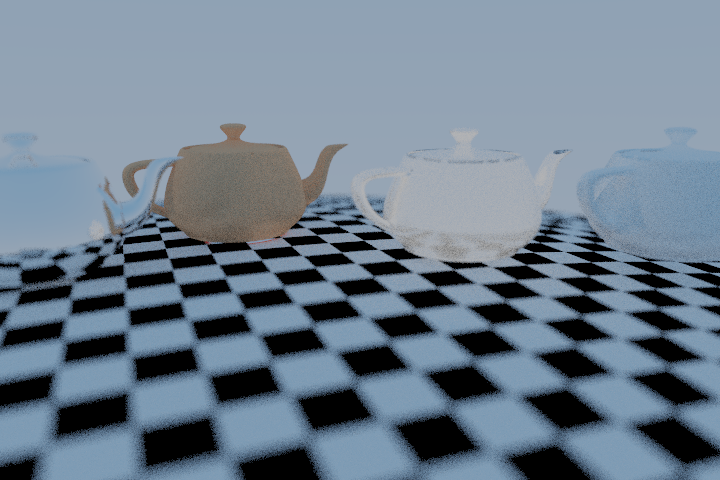
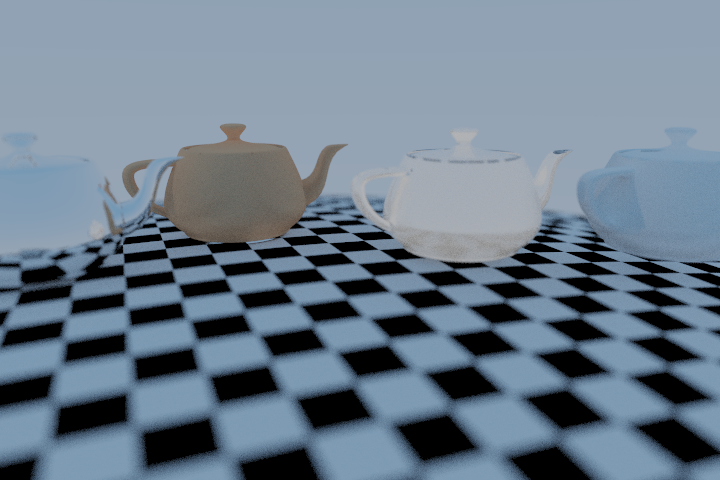
nice stuff

diff --git a/src/main.rs b/src/main.rs
@@ -6,6 +6,7 @@ pub mod brdf;
 pub mod cpu_tracer;
 pub mod hittable;
 pub mod intersection;
+pub mod light;
 pub mod mat;
 pub mod material;
 pub mod materials;
@@ -139,6 +140,7 @@ impl RayGenerationShader for RayGenerator {
                     hit_record.front_facing =
                         dot(&hit_record.normal, &hit_record.ray_direction()) < 0.0;
                     let bounce = material.scatter(resources, &hit_record);
+                    coefficient *= bounce.color;
                     ray = bounce.ray;
                     hit_record.bounce = bounce;
                     results.push(hit_record);
@@ -146,7 +148,7 @@ impl RayGenerationShader for RayGenerator {
                     let d = 0.5 * ray.dir.y() + 1.;
                     let c = Color::from_values(&[1.0, 1.0, 1.0]) * (1.0 - d)
                         + Color::from_values(&[0.5, 0.7, 1.0]) * d;
-                    coefficient *= c;
+                    coefficient = c;
                     break;
                 }
 
@@ -253,5 +255,5 @@ fn main() {
     );
 
     let tracer = CPUTracer::new(RayGenerator { camera: camera });
-    tracer.trace(32, 16, width, height, &ac, &resources);
+    tracer.trace(128, 16, width, height, &ac, &resources);
 }

diff --git a/src/hittable.rs b/src/hittable.rs
@@ -7,6 +7,7 @@ use super::vec::*;
 use std::time::Instant;
 
 pub trait Hittable {
+    fn uid(&self) -> usize;
     fn intersect(
         &self,
         object_to_world: &Transform,
@@ -92,6 +93,10 @@ impl Hittable for Sphere {
     fn bounding_box(&self) -> std::option::Option<BoundingBox> {
         let r = Position::from_values(&[self.radius, self.radius, self.radius]);
         Some(BoundingBox::new(self.position - r, self.position + r))
+    }
+
+    fn uid(&self) -> usize {
+        1
     }
 }
 
@@ -210,6 +215,10 @@ impl Hittable for TriangleMesh {
 
     fn bounding_box(&self) -> Option<BoundingBox> {
         Some(self.acceleration_structure.bounding_box())
+    }
+
+    fn uid(&self) -> usize {
+        2
     }
 }
 
@@ -331,6 +340,10 @@ impl Hittable for XYRect {
             Vec3::from_values(&[self.x0, self.y0, -0.0001]),
             Vec3::from_values(&[self.x1, self.y1, 0.0001]),
         ))
+    }
+
+    fn uid(&self) -> usize {
+        3
     }
 }
 pub struct XZRect {

diff --git a/src/materials.rs b/src/materials.rs
@@ -37,6 +37,10 @@ impl Material for DiffuseMaterial {
     fn emit(&self, _: &Resources, _hit_record: &HitRecord) -> Option<Color> {
         None
     }
+
+    fn uid(&self) -> usize {
+        1
+    }
 }
 
 pub struct MirrorMaterial {
@@ -54,6 +58,10 @@ impl Material for MirrorMaterial {
             &hit_record.position(),
         );
         Bounce::new(&ray, &color, 1.0)
+    }
+
+    fn uid(&self) -> usize {
+        2
     }
 }
 
@@ -107,6 +115,10 @@ impl Material for TranslucentMaterial {
 
     fn emit(&self, resources: &Resources, _hit_record: &HitRecord) -> Option<Color> {
         None
+    }
+
+    fn uid(&self) -> usize {
+        3
     }
 }
 
@@ -176,5 +188,9 @@ impl Material for PBRMaterial {
 
     fn emit(&self, resources: &Resources, _hit_record: &HitRecord) -> Option<crate::types::Color> {
         None
+    }
+
+    fn uid(&self) -> usize {
+        4
     }
 }

diff --git a/src/texture.rs b/src/texture.rs
@@ -2,6 +2,7 @@ use super::resources::Resources;
 use super::types::*;
 use super::vec::*;
 pub trait Texture {
+    fn uid(&self) -> usize;
     fn sample(&self, resources: &Resources, uv: &TextureCoordinate, position: &Position) -> Color;
 }
 
@@ -18,6 +19,10 @@ impl SolidColorTexture {
 impl Texture for SolidColorTexture {
     fn sample(&self, _resources: &Resources, _: &TextureCoordinate, _: &Position) -> Color {
         self.color
+    }
+
+    fn uid(&self) -> usize {
+        1
     }
 }
 
@@ -47,5 +52,9 @@ impl Texture for CheckerTexture {
         } else {
             resources.texture(self.even).sample(resources, uv, position)
         }
+    }
+
+    fn uid(&self) -> usize {
+        2
     }
 }

diff --git a/src/light.rs b/src/light.rs
@@ -1,0 +1,26 @@
+use super::types::{Direction, Position};
+
+pub trait Light {
+    fn sample(&self, position: &Position) -> Direction;
+    fn intensity(&self) -> f32;
+}
+
+pub struct DirectionalLight {
+    direction: Direction,
+    intenstity: f32,
+}
+
+impl Light for DirectionalLight {
+    fn sample(&self, _: &Position) -> Direction {
+        self.direction
+    }
+
+    fn intensity(&self) -> f32 {
+        self.intenstity
+    }
+}
+
+pub struct SphericalLight {
+    radius: f32,
+    intensity: f32,
+}

diff --git a/src/material.rs b/src/material.rs
@@ -45,6 +45,8 @@ impl HitRecord {
 }
 
 pub trait Material {
+    fn uid(&self) -> usize;
+
     fn scatter(&self, resources: &Resources, _hit_record: &HitRecord) -> Bounce {
         Bounce::default()
     }

diff --git a/src/resources.rs b/src/resources.rs
@@ -1,4 +1,4 @@
-use rand::rngs::adapter::ReseedingRng;
+use serde::{Deserialize, Serialize};
 
 use super::hittable::Hittable;
 use super::material::Material;
